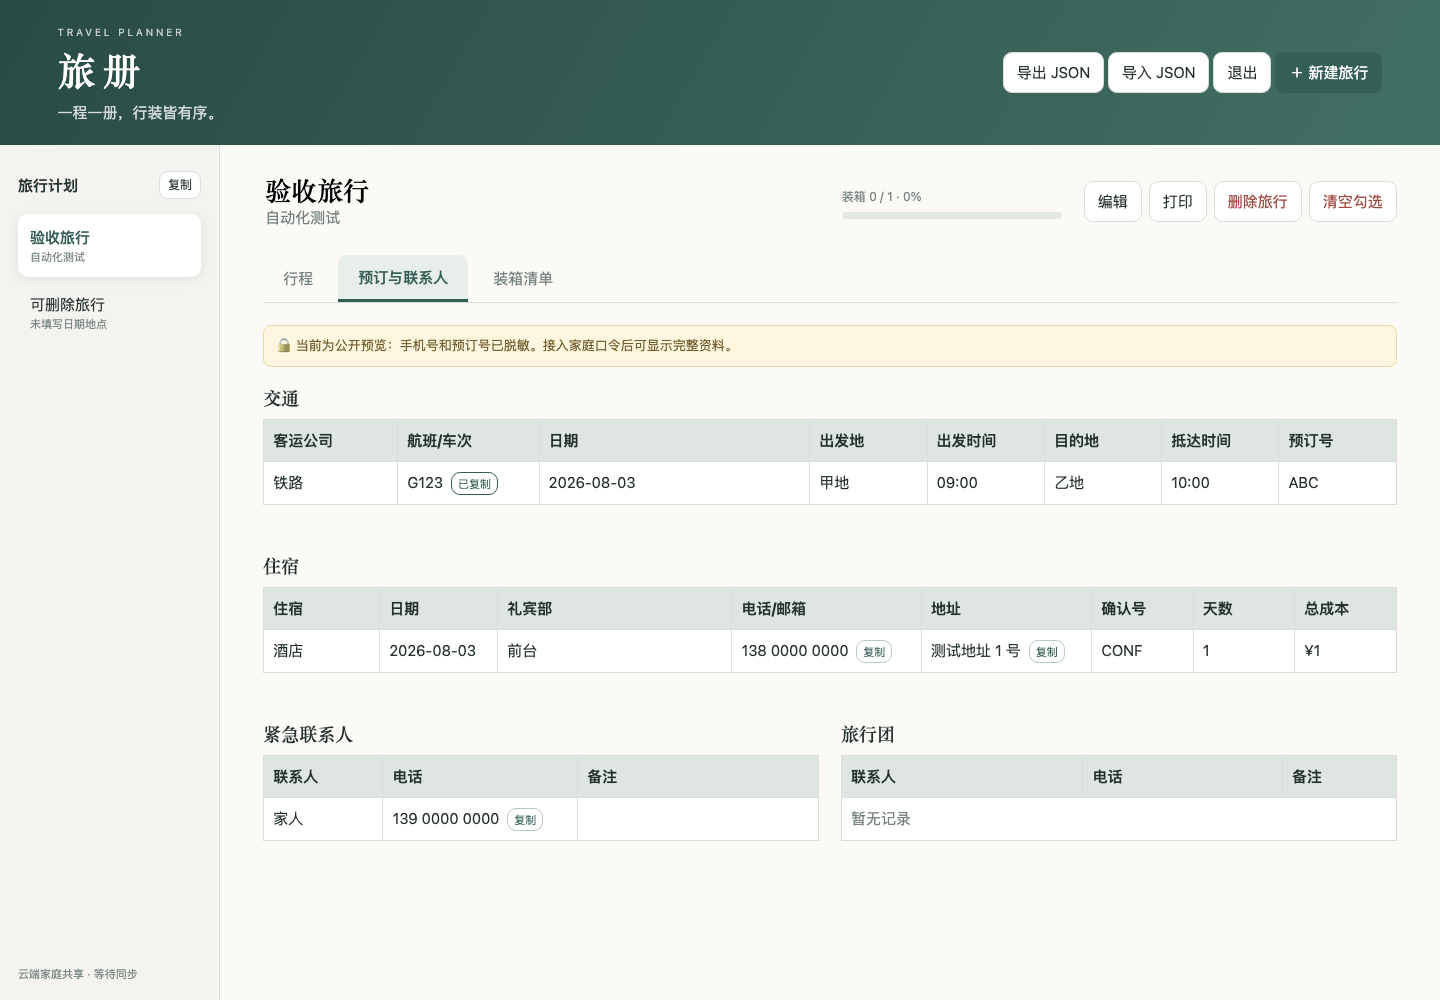
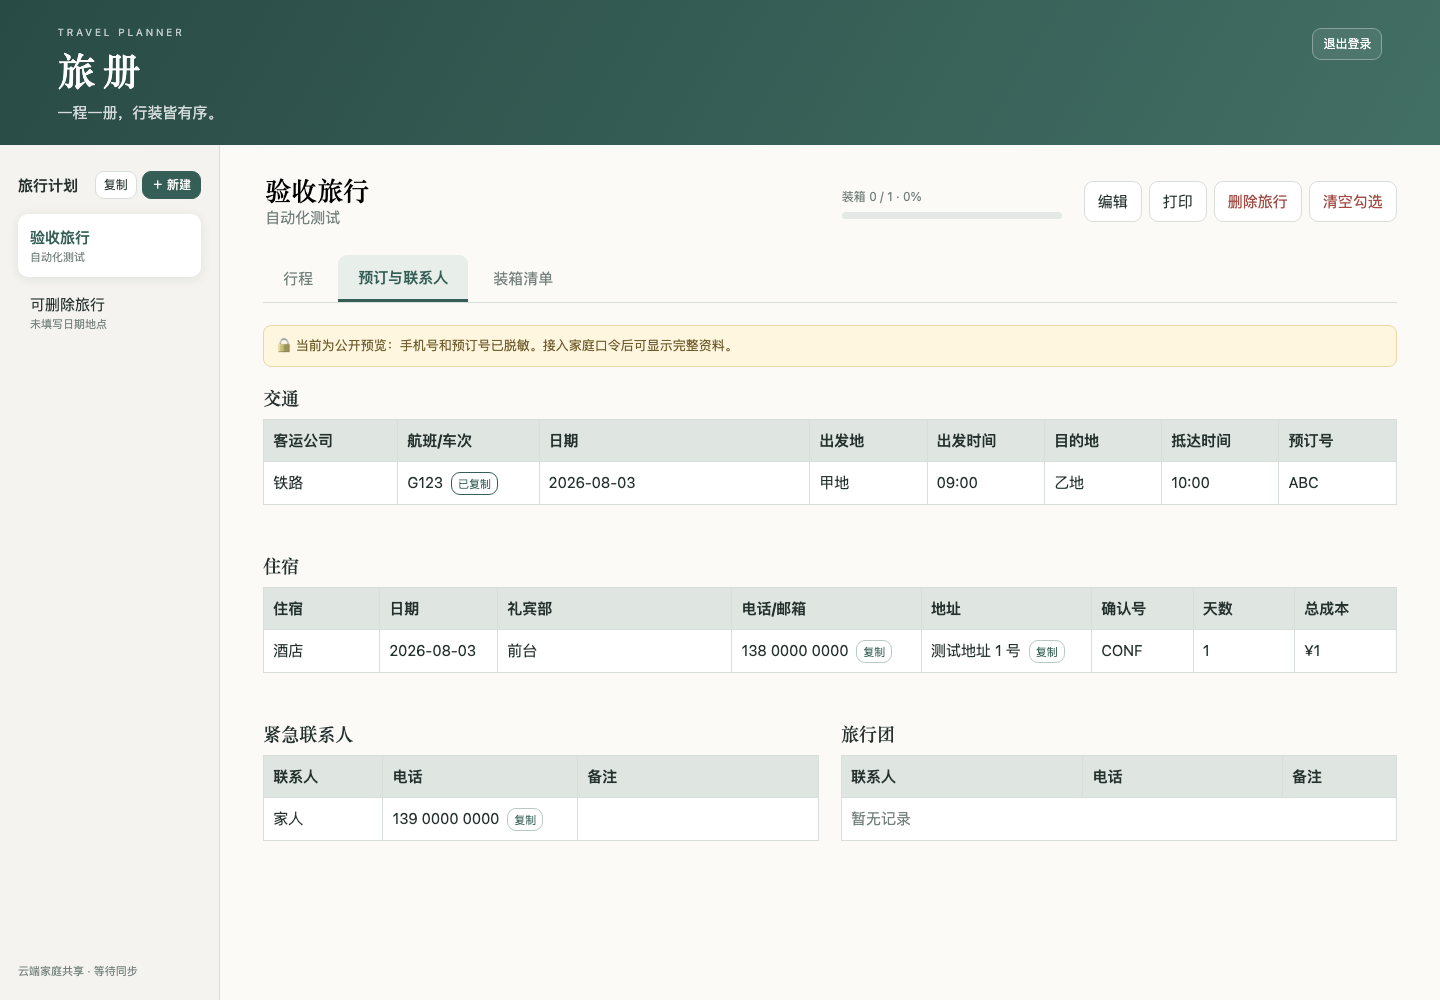
feat: add true mobile layout

Changed region(s): [[0.6875, 0.031, 0.9688, 0.093], [0.0625, 0.155, 0.1562, 0.217], [0.0, 0.961, 0.0938, 0.992]]

diff --git a/app.js b/app.js
@@ -6,7 +6,7 @@ let state=structuredClone(seed),editing=false,syncTimer,cloudVersion=0,syncBlock
 function localData(){try{return JSON.parse(localStorage.getItem(KEY))}catch{return null}}function normalize(s){s=s||structuredClone(seed);s.tab=s.tab||'itinerary';s.trips.forEach(t=>{if(!t.itinerary)t.itinerary=structuredClone(travelData.itinerary);if(!t.transport)t.transport=structuredClone(travelData.transport);if(!t.hotels)t.hotels=structuredClone(travelData.hotels);if(!t.emergency)t.emergency=structuredClone(travelData.emergency);if(!t.tour)t.tour=[];let documents=t.categories?.find(c=>c.id==='c3'||c.name==='证件行程');if(documents&&!documents.items.some(i=>i.name==='盖章本'))documents.items.push({id:'i3-stampbook',name:'盖章本',qty:1,packed:false})});return s}function validImport(s){return !!s&&typeof s==='object'&&Array.isArray(s.trips)&&s.trips.length>0&&s.trips.length<=50&&typeof s.active==='string'&&typeof s.tab==='string'&&s.trips.every(t=>t&&typeof t.id==='string'&&t.id&&typeof t.name==='string'&&['categories','itinerary','transport','hotels','emergency','tour'].every(k=>Array.isArray(t[k])))}function saveLocal(){localStorage.setItem(KEY,JSON.stringify(state))}function save(){saveLocal();renderList();renderProgress();queueSync()}function queueSync(){if(syncBlocked)return;clearTimeout(syncTimer);$('#syncStatus').textContent='等待同步';syncTimer=setTimeout(syncNow,700)}async function syncNow(){try{if(syncBlocked)return;$('#syncStatus').textContent='同步中…';let r=await fetch('/api/trips',{method:'PUT',headers:{'Content-Type':'application/json','If-Match':String(cloudVersion)},body:JSON.stringify(state)});if(r.status===401)return location.assign('/login');let result=await r.json();if(r.status===409){syncBlocked=true;$('#syncStatus').textContent='存在云端冲突，请刷新页面';alert('数据已在其他设备更新。为避免覆盖，当前修改仅保存在本机；请导出备份后刷新页面。');return}if(!r.ok)throw Error(result.error||'同步失败');cloudVersion=result.version;$('#syncStatus').textContent='已同步'}catch(e){$('#syncStatus').textContent='同步失败（本机已保存）';console.error(e)}}async function init(){try{let r=await fetch('/api/trips');if(r.status===401)return location.assign('/login');if(!r.ok)throw Error('读取云端失败');let result=await r.json();cloudVersion=result.version||0;state=normalize(result.data||localData());saveLocal();if(!result.data)await syncNow()}catch(e){state=normalize(localData());saveLocal();$('#syncStatus').textContent='离线模式';console.error(e)}render()}function uid(p){return p+Date.now().toString(36)+Math.random().toString(36).slice(2,5)}function esc(s=''){return String(s).replace(/[&<>]/g,c=>({'&':'&amp;','<':'&lt;','>':'&gt;'}[c]))}function attr(s=''){return esc(s).replace(/"/g,'&quot;')}
 function renderList(){let n=$('#tripList');n.innerHTML='';state.trips.forEach(t=>{let b=document.createElement('button');b.className=t.id===state.active?'active':'';b.innerHTML=`${esc(t.name)}<span class="trip-date">${esc(t.meta||'未填写日期地点')}</span>`;b.onclick=()=>{state.active=t.id;save();render()};n.append(b)})}
 function render(){let t=trip();$('#tripName').value=t.name;$('#tripMeta').value=t.meta||'';renderList();document.body.classList.toggle('editing',editing);$('#editToggle').textContent=editing?'完成':'编辑';document.querySelectorAll('#tabs button').forEach(b=>{b.classList.toggle('active',b.dataset.tab===state.tab);b.onclick=()=>{state.tab=b.dataset.tab;save();render()}});let root=$('#tabContent');root.innerHTML='';if(state.tab==='itinerary')root.append(tablePanel('每日行程',['日期','时间','活动','位置','联系人','备注'],t.itinerary));else if(state.tab==='bookings'){root.innerHTML='<div class="privacy-note">🔒 当前为公开预览：手机号和预订号已脱敏。接入家庭口令后可显示完整资料。</div><div class="booking-grid" id="bookingGrid"></div>';let g=$('#bookingGrid');g.append(tablePanel('交通',['客运公司','航班/车次','日期','出发地','出发时间','目的地','抵达时间','预订号'],t.transport,'wide'),tablePanel('住宿',['住宿','日期','礼宾部','电话/邮箱','地址','确认号','天数','总成本'],t.hotels,'wide'),tablePanel('紧急联系人',['联系人','电话','备注'],t.emergency),tablePanel('旅行团',['联系人','电话','备注'],t.tour));}else renderPacking(root,t);renderProgress()}
-function tablePanel(title,heads,rows,cls=''){let sec=document.createElement('section');sec.className='table-block '+cls;sec.innerHTML=`<div class="section-title"><h2>${title}</h2><button class="edit-only">＋ 添加</button></div><div class="data-scroll"><table class="data-table"><thead><tr>${heads.map(h=>`<th>${h}</th>`).join('')}<th class="edit-only"></th></tr></thead><tbody></tbody></table></div>`;let body=sec.querySelector('tbody'),today=new Date().toLocaleDateString('en-CA');rows.forEach((r,ri)=>{let tr=document.createElement('tr');if(title==='每日行程'&&r[0]===today){tr.classList.add('today');tr.setAttribute('aria-label','今天')}tr.innerHTML=r.map((v,ci)=>`<td><div class="cell-view">${esc(v)}${/车次|地址|电话/.test(heads[ci])&&v?` <button class="copy-value" title="复制${heads[ci]}" aria-label="复制${heads[ci]}" data-copy="${attr(v)}">复制</button>`:''}</div><textarea class="cell-edit" rows="1" data-i="${ri}" data-j="${ci}">${esc(v)}</textarea></td>`).join('')+`<td class="edit-only"><button class="remove-row">×</button></td>`;tr.querySelectorAll('textarea').forEach(i=>{autoGrow(i);i.oninput=()=>autoGrow(i);i.onchange=()=>{rows[+i.dataset.i][+i.dataset.j]=i.value;save()}});tr.querySelectorAll('.copy-value').forEach(x=>x.onclick=()=>copyValue(x));tr.querySelector('.remove-row').onclick=()=>{rows.splice(ri,1);save();render()};body.append(tr)});if(!rows.length)body.innerHTML=`<tr><td colspan="${heads.length+1}" class="empty">暂无记录</td></tr>`;sec.querySelector('.section-title button').onclick=()=>{rows.push(Array(heads.length).fill(''));save();render()};return sec}
+function tablePanel(title,heads,rows,cls=''){let sec=document.createElement('section');sec.className='table-block '+cls;sec.innerHTML=`<div class="section-title"><h2>${title}</h2><button class="edit-only">＋ 添加</button></div><div class="data-scroll"><table class="data-table"><thead><tr>${heads.map(h=>`<th>${h}</th>`).join('')}<th class="edit-only"></th></tr></thead><tbody></tbody></table></div>`;let body=sec.querySelector('tbody'),today=new Date().toLocaleDateString('en-CA');rows.forEach((r,ri)=>{let tr=document.createElement('tr');if(title==='每日行程'&&r[0]===today){tr.classList.add('today');tr.setAttribute('aria-label','今天')}tr.innerHTML=r.map((v,ci)=>`<td data-label="${attr(heads[ci])}"><div class="cell-view">${esc(v)}${/车次|地址|电话/.test(heads[ci])&&v?` <button class="copy-value" title="复制${heads[ci]}" aria-label="复制${heads[ci]}" data-copy="${attr(v)}">复制</button>`:''}</div><textarea class="cell-edit" rows="1" data-i="${ri}" data-j="${ci}" aria-label="${attr(heads[ci])}">${esc(v)}</textarea></td>`).join('')+`<td class="edit-only row-action" data-label="操作"><button class="remove-row">删除此条</button></td>`;tr.querySelectorAll('textarea').forEach(i=>{autoGrow(i);i.oninput=()=>autoGrow(i);i.onchange=()=>{rows[+i.dataset.i][+i.dataset.j]=i.value;save()}});tr.querySelectorAll('.copy-value').forEach(x=>x.onclick=()=>copyValue(x));tr.querySelector('.remove-row').onclick=()=>{rows.splice(ri,1);save();render()};body.append(tr)});if(!rows.length)body.innerHTML=`<tr><td colspan="${heads.length+1}" class="empty">暂无记录</td></tr>`;sec.querySelector('.section-title button').onclick=()=>{rows.push(Array(heads.length).fill(''));save();render()};return sec}
 let toastTimer;function toast(message,failed=false){let n=$('#toast');n.textContent=message;n.className=failed?'show failed':'show';clearTimeout(toastTimer);toastTimer=setTimeout(()=>n.className='',2200)}async function copyValue(button){try{await navigator.clipboard.writeText(button.dataset.copy);button.textContent='已复制';toast('已复制到剪贴板');setTimeout(()=>button.textContent='复制',1600)}catch(e){toast('复制失败，请长按或选中文字复制',true);console.error(e)}}
 function autoGrow(el){el.style.height='auto';el.style.height=el.scrollHeight+'px'}
 function renderPacking(root,t){let cats=document.createElement('div');cats.className='categories';t.categories.forEach(c=>cats.append(renderCategory(c)));root.append(cats);let add=document.createElement('button');add.className='add-category edit-only';add.textContent='＋ 添加分类';add.onclick=()=>{t.categories.push({id:uid('c'),name:'新分类',items:[]});save();render()};root.append(add)}

diff --git a/test/browser.test.js b/test/browser.test.js
@@ -16,7 +16,7 @@ const document={active:'one',tab:'itinerary',trips:[{id:'one',name:'验收旅行
 test.before(async()=>{await mkdir(join(root,'docs/evidence'),{recursive:true});server=createServer(async(req,res)=>{if(req.url==='/api/trips'){res.setHeader('content-type','application/json');if(req.method==='GET')res.end(JSON.stringify({version:1,data:document}));else res.end(JSON.stringify({version:2})) ;return}let p=req.url==='/'?'index.html':req.url.slice(1);try{let data=await readFile(join(root,p));res.setHeader('content-type',mime[extname(p)]||'application/octet-stream');res.end(data)}catch{res.statusCode=404;res.end()}});await new Promise(r=>server.listen(0,'127.0.0.1',r));base=`http://127.0.0.1:${server.address().port}`;browser=await chromium.launch({executablePath:browserPath,headless:true})});
 test.after(async()=>{await browser?.close();await new Promise(r=>server.close(r))});
 
-test('desktop/mobile UX, delete guard, current day and copy feedback',async()=>{for(const [name,viewport] of [['desktop',{width:1440,height:1000}],['mobile',{width:390,height:844}]]){let context=await browser.newContext({viewport});await context.grantPermissions(['clipboard-read','clipboard-write'],{origin:base});let page=await context.newPage();await page.goto(base);await page.waitForSelector('tr.today');assert.equal(await page.locator('tr.today').count(),1);await page.getByRole('button',{name:'预订与联系人'}).click();let copy=page.getByRole('button',{name:'复制航班/车次'});await copy.click();assert.equal(await page.evaluate(()=>navigator.clipboard.readText()),'G123');await page.getByText('已复制到剪贴板').waitFor();assert.equal(await page.evaluate(()=>document.documentElement.scrollWidth<=document.documentElement.clientWidth),true,`${name} has page-level horizontal overflow`);await page.screenshot({path:join(root,`docs/evidence/ux-${name}.png`),fullPage:true});await context.close()}
+test('desktop/mobile UX, delete guard, current day and copy feedback',async()=>{for(const [name,viewport] of [['desktop',{width:1440,height:1000}],['mobile',{width:390,height:844}]]){let context=await browser.newContext({viewport});await context.grantPermissions(['clipboard-read','clipboard-write'],{origin:base});let page=await context.newPage();await page.goto(base);await page.waitForSelector('tr.today');assert.equal(await page.locator('tr.today').count(),1);await page.getByRole('button',{name:'预订与联系人'}).click();let copy=page.getByRole('button',{name:'复制航班/车次'});await copy.click();assert.equal(await page.evaluate(()=>navigator.clipboard.readText()),'G123');await page.getByText('已复制到剪贴板').waitFor();assert.equal(await page.evaluate(()=>document.documentElement.scrollWidth<=document.documentElement.clientWidth),true,`${name} has page-level horizontal overflow`);if(name==='mobile'){assert.equal(await page.locator('.data-table thead').first().evaluate(el=>getComputedStyle(el).display),'none');assert.equal(await page.locator('.data-table tbody tr').first().evaluate(el=>getComputedStyle(el).display),'block');const logout=await page.getByRole('button',{name:'退出登录'}).boundingBox(),viewportSize=page.viewportSize();assert.ok(logout&&logout.x>viewportSize.width/2&&logout.y<130,'mobile logout is not in the upper-right header')}await page.screenshot({path:join(root,`docs/evidence/ux-${name}.png`),fullPage:true});await context.close()}
 let page=await browser.newPage();await page.goto(base);await page.getByRole('button',{name:/可删除旅行/}).click();await page.getByRole('button',{name:'删除旅行',exact:true}).click();await page.getByText('此操作无法撤销').waitFor();await page.getByRole('button',{name:'永久删除'}).click();await page.getByText('旅行已删除').waitFor();assert.equal(await page.getByRole('button',{name:/可删除旅行/}).count(),0);page.once('dialog',d=>{assert.match(d.message(),/唯一一份旅行/);d.accept()});await page.getByRole('button',{name:'删除旅行',exact:true}).click()});
 
 test('A4 landscape print PDF stays within printable page',async()=>{let page=await browser.newPage({viewport:{width:1440,height:1000}});await page.goto(base);for(const tab of ['行程','预订与联系人','装箱清单']){await page.getByRole('button',{name:tab,exact:true}).click();let file=join(root,`docs/evidence/print-${tab}.pdf`);await page.pdf({path:file,format:'A4',landscape:true,printBackground:true,preferCSSPageSize:true});let pdf=await PDFDocument.load(await readFile(file));assert.ok(pdf.getPageCount()>=1);for(const p of pdf.getPages()){let {width,height}=p.getSize();assert.ok(width>height);assert.ok(Math.abs(width-841.89)<3&&Math.abs(height-595.28)<3)}}});

diff --git a/style.css b/style.css
@@ -14,3 +14,69 @@
 .account-bar #logout{padding:3px 0;border:0;background:transparent;color:var(--muted);font-size:11px;text-decoration:underline;text-underline-offset:3px}
 .account-bar #logout:hover{color:var(--ink)}
 @media(max-width:680px){.account-bar{position:static;width:auto;display:flex;justify-content:space-between;align-items:center;padding:8px 0 0}.storage-note{display:none}}
+
+/* Mobile layout: compact controls and card-based records instead of clipped tables. */
+@media(max-width:680px){
+  header{min-height:108px;padding:20px 18px}
+  header>div{display:flex;align-items:baseline;flex-wrap:wrap;gap:0 12px}
+  header .eyebrow{flex-basis:100%;margin-bottom:3px}
+  header h1{font-size:30px;letter-spacing:.12em}
+  header p{font-size:13px}
+  aside{padding:12px 14px;background:#f4f3ef;border-bottom:1px solid var(--line)}
+  .aside-title{display:flex;margin-bottom:8px;gap:10px}
+  .aside-title>b{font-size:13px}
+  .trip-actions{margin-left:auto}
+  .trip-actions button{padding:6px 9px;font-size:12px}
+  nav{gap:7px;overflow-x:auto;padding:1px 0 5px;scrollbar-width:none}
+  nav::-webkit-scrollbar{display:none}
+  nav button{min-width:132px;padding:9px 10px;margin:0;background:#fff;border:1px solid var(--line)}
+  .account-bar{padding:6px 1px 0;gap:10px}
+  .account-bar>span{margin:0;overflow:hidden;text-overflow:ellipsis;white-space:nowrap}
+  .workspace{padding:18px 14px 42px}
+  .toolbar{display:block;margin-bottom:17px}
+  .toolbar>div:first-child{min-width:0}
+  .toolbar #tripName{font-size:24px}
+  .progress{margin-top:12px}
+  .actions{margin-top:12px;width:100%;display:grid;grid-template-columns:repeat(4,minmax(0,1fr));gap:6px;overflow:visible}
+  .actions button{padding:7px 3px;white-space:nowrap;font-size:13px}
+  .tabs{gap:0;margin-bottom:20px;overflow-x:auto;scrollbar-width:none}
+  .tabs::-webkit-scrollbar{display:none}
+  .tabs button{flex:1;padding:10px 12px;min-width:max-content;text-align:center}
+  .section-title h2{font-size:18px}
+  .data-scroll{overflow:visible;max-width:none}
+  .data-table,.data-table tbody,.data-table tr,.data-table td{display:block;width:100%}
+  .data-table{min-width:0;border:0;background:transparent}
+  .data-table thead{display:none}
+  .data-table tbody{display:grid;gap:12px}
+  .data-table tr{overflow:hidden;border:1px solid var(--line);border-radius:12px;background:#fff;box-shadow:0 3px 14px #203b300c}
+  .data-table td,.data-table td:nth-child(3),.data-table td:last-child{min-width:0;border:0;border-bottom:1px solid #e8ece9;padding:8px 11px 8px 104px;position:relative;overflow-wrap:anywhere;line-height:1.45}
+  .data-table td:last-child{border-bottom:0}
+  .data-table td::before{content:attr(data-label);position:absolute;left:11px;top:8px;width:82px;color:var(--muted);font-size:12px;font-weight:600}
+  .cell-view{min-width:0}
+  .cell-edit{min-width:0;padding:5px}
+  .data-table tr.today{border:2px solid #c49b38}
+  .data-table tr.today td{background:#fffdf3;border-top:0;border-bottom:1px solid #eadfb9}
+  .data-table tr.today td:first-child::before{content:attr(data-label);margin:0;padding:0;border-radius:0;background:transparent;color:var(--muted);font-size:12px}
+  .data-table tr.today::before{content:'今天';display:block;padding:4px 11px;background:#c49b38;color:#fff;font-size:11px;font-weight:700}
+  .copy-value{float:right;margin:-1px 0 0 6px}
+  .row-action{padding-left:11px!important;text-align:right}
+  .row-action::before{display:none}
+  .row-action .remove-row{padding:5px 9px}
+  .booking-grid{gap:8px}
+  .privacy-note{font-size:12px}
+  .empty{padding:28px 12px!important;text-align:center}
+  .empty::before{display:none}
+  dialog{width:calc(100vw - 28px);max-width:420px}
+  dialog form{min-width:0;padding:20px}
+}
+@media(max-width:380px){
+  .actions{grid-template-columns:repeat(2,1fr)}
+  .data-table td,.data-table td:nth-child(3),.data-table td:last-child{padding-left:92px}
+  .data-table td::before{width:70px}
+}
+
+/* Global account action belongs in the page header. */
+header #logout{align-self:flex-start;border:1px solid #ffffff55;background:#ffffff12;color:#fff;padding:6px 10px;font-size:12px}
+header #logout:hover{border-color:#fff;background:#ffffff20}
+.account-bar{width:184px}
+@media(max-width:680px){header{position:relative;padding-right:88px}header #logout{position:absolute;right:14px;top:16px}.account-bar{width:auto}.account-bar>span{font-size:11px}}

diff --git a/index.html b/index.html
@@ -1,6 +1,6 @@
 <!doctype html><html lang="zh-CN"><head><meta charset="utf-8"><meta name="viewport" content="width=device-width,initial-scale=1"><meta name="theme-color" content="#355f56"><title>旅册</title><link rel="stylesheet" href="style.css"></head><body>
-<header><div><span class="eyebrow">TRAVEL PLANNER</span><h1>旅册</h1><p id="subtitle">一程一册，行装皆有序。</p></div></header>
-<main><aside><div class="aside-title"><b>旅行计划</b><div class="trip-actions"><button id="duplicate" title="复制当前计划">复制</button><button class="primary" id="newTrip">＋ 新建</button></div></div><nav id="tripList"></nav><div class="account-bar"><span>云端家庭共享 · <span id="syncStatus">正在读取…</span></span><button id="logout">退出登录</button></div></aside>
+<header><div><span class="eyebrow">TRAVEL PLANNER</span><h1>旅册</h1><p id="subtitle">一程一册，行装皆有序。</p></div><button id="logout">退出登录</button></header>
+<main><aside><div class="aside-title"><b>旅行计划</b><div class="trip-actions"><button id="duplicate" title="复制当前计划">复制</button><button class="primary" id="newTrip">＋ 新建</button></div></div><nav id="tripList"></nav><div class="account-bar"><span>云端家庭共享 · <span id="syncStatus">正在读取…</span></span></div></aside>
 <section class="workspace"><div class="toolbar"><div><input id="tripName" aria-label="旅行名称"><input id="tripMeta" aria-label="日期地点" placeholder="日期 · 地点"></div><div class="progress"><span id="progressText"></span><div><i id="progressBar"></i></div></div><div class="actions"><button id="editToggle">编辑</button><button onclick="window.print()">打印</button><button class="danger" id="deleteTrip">删除旅行</button><button class="danger" id="reset">清空勾选</button></div></div><div class="tabs" id="tabs"><button data-tab="itinerary">行程</button><button data-tab="bookings">预订与联系人</button><button data-tab="packing">装箱清单</button></div><div id="tabContent"></div></section></main>
 <dialog id="tripDialog"><form method="dialog"><h2>新建旅行</h2><label>旅行名称<input id="newName" required placeholder="例如：山海行"></label><label>日期与地点<input id="newMeta" placeholder="2026.10 · 厦门"></label><menu><button value="cancel">取消</button><button value="default" id="createTrip" class="primary">创建</button></menu></form></dialog>
 <dialog id="deleteDialog"><form method="dialog"><h2>删除旅行？</h2><p>将永久删除「<strong id="deleteTripName"></strong>」，并同步到云端。此操作无法撤销。</p><p class="dialog-warning">删除后无法恢复，请确认不再需要这份旅行。</p><menu><button value="cancel">取消</button><button value="confirm" id="confirmDeleteTrip" class="danger-solid">永久删除</button></menu></form></dialog>
